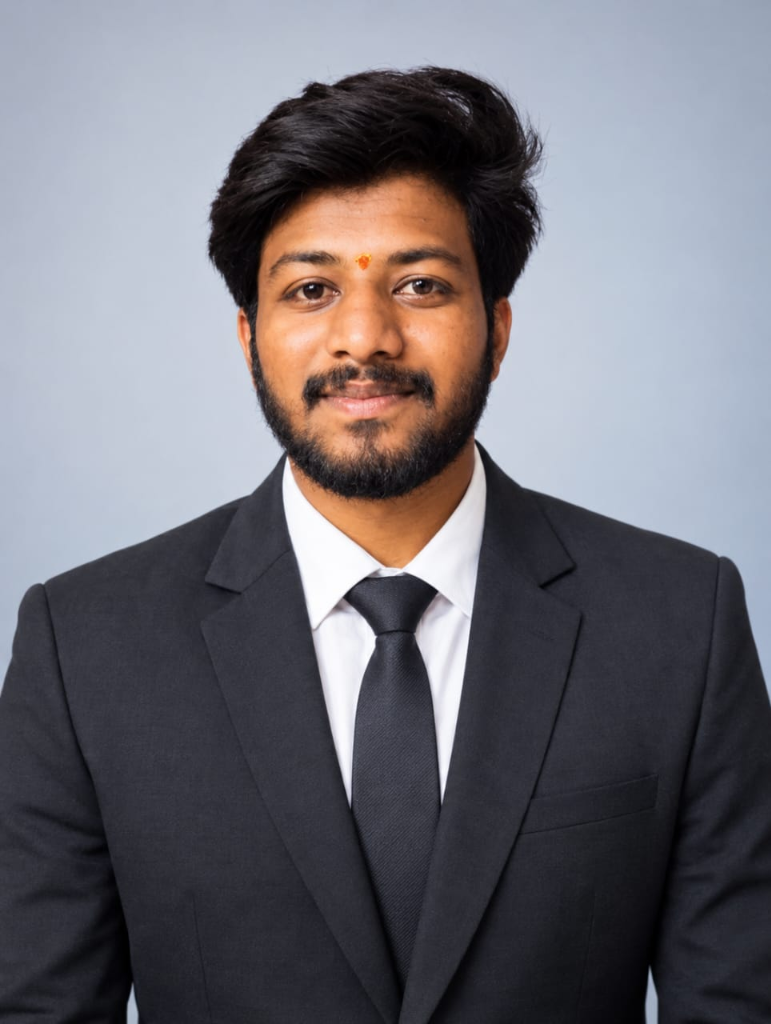
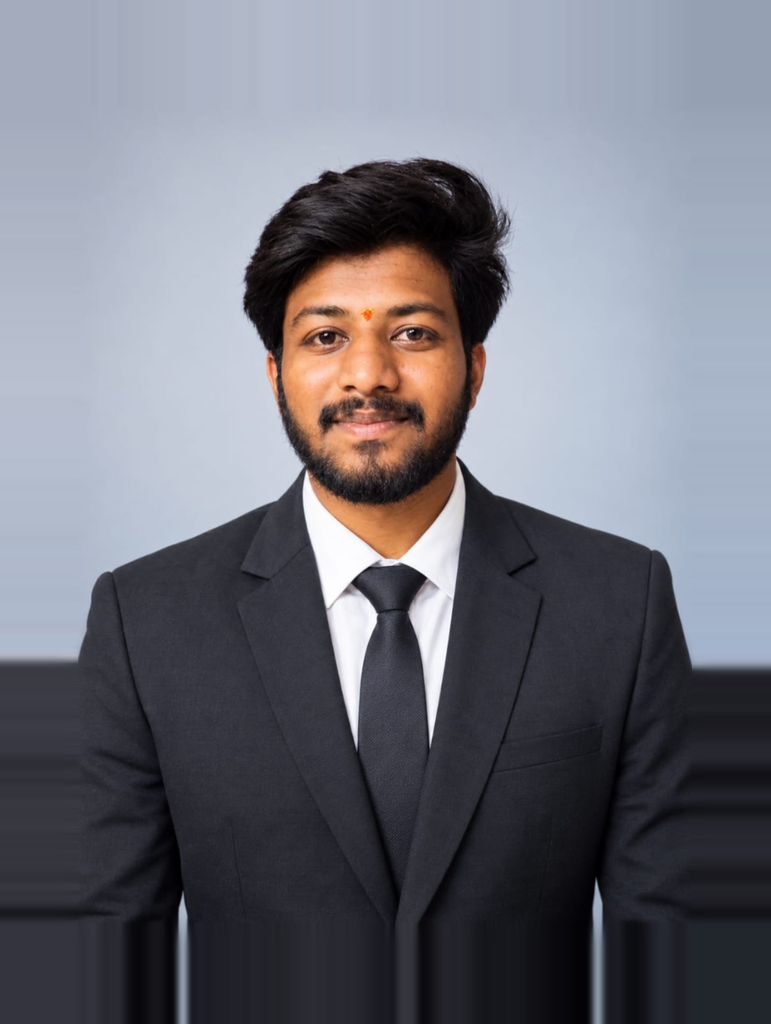
fix: zoom out Founder & CEO image framing with extended headroom and taller container

diff --git a/app/about/page.tsx b/app/about/page.tsx
@@ -205,7 +205,7 @@ export default function About() {
           <div className="grid md:grid-cols-2 gap-8 max-w-4xl mx-auto">
             {/* Alligaskhanpet Charan - Founder and CEO */}
             <div className="bg-white rounded-xl border border-gray-200 shadow-md overflow-hidden flex flex-col">
-              <div className="relative h-80 w-full bg-slate-100">
+              <div className="relative h-96 md:h-[400px] w-full bg-slate-100">
                 <Image
                   src="/team_charan.png"
                   alt="Alligaskhanpet Charan - Founder and CEO"
@@ -226,7 +226,7 @@ export default function About() {
 
             {/* Prasad - Cloud Engineer */}
             <div className="bg-white rounded-xl border border-gray-200 shadow-md overflow-hidden flex flex-col">
-              <div className="relative h-80 w-full bg-slate-100">
+              <div className="relative h-96 md:h-[400px] w-full bg-slate-100">
                 <Image
                   src="/team_prasad.png"
                   alt="Prasad - Cloud Engineer"
